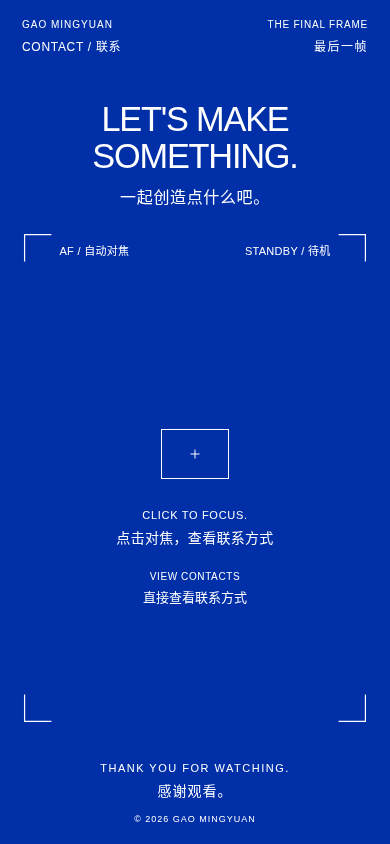
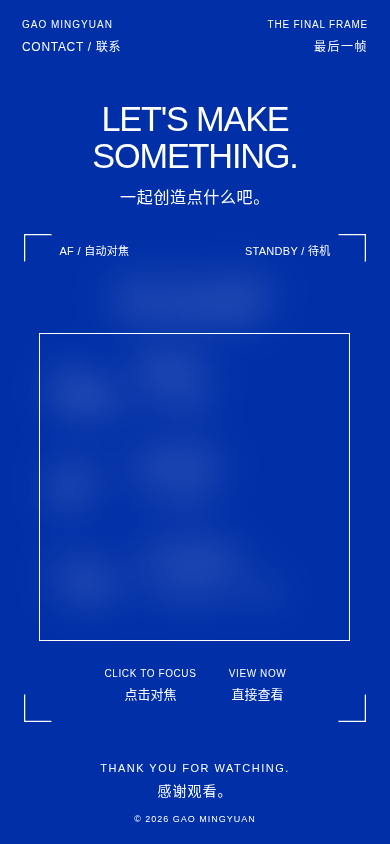
Keep CONTACT composition fixed and animate blur only

diff --git a/prototypes/contact-interaction/contact.js b/prototypes/contact-interaction/contact.js
@@ -1,99 +1,54 @@
 'use strict';
 (() => {
   const $ = id => document.getElementById(id);
-  const root=$('contact'), frame=$('viewfinder'), mark=$('focus-mark'), trigger=$('focus-trigger'), panel=$('contact-panel');
-  const direct=$('direct-view'), controls=$('frame-controls'), back=$('back'), refocus=$('refocus'), feedback=$('copy-feedback');
+  const root=$('contact'), frame=$('viewfinder'), content=$('focus-content'), trigger=$('focus-trigger'), panel=$('contact-panel');
+  const back=$('back'), refocus=$('refocus'), feedback=$('copy-feedback');
   const reduced=matchMedia('(prefers-reduced-motion: reduce)');
-  const clamp=x=>Math.max(0,Math.min(1,x)), mix=(a,b,t)=>a+(b-a)*t;
-  const ease=x=>(1-Math.cos(Math.PI*clamp(x)))/2, phase=(p,a,b)=>ease((p-a)/(b-a));
-  let playhead=0, goal=0, rate=0, reopen=false, raf=0, last=0;
-  const position={x:0,y:0}, velocity={x:0,y:0}, target={x:0,y:0};
+  let playhead=0, goal=0, animation=null, raf=0, reopen=false;
   let contact={email:null,wechat:null,resumeUrl:null,wechatQrUrl:null}, copyEpoch=0, feedbackToken=0;
-  function labels(state) {
-    root.dataset.state=state;
-    const text={
-      standby:['STANDBY / 待机','CLICK TO FOCUS.','点击对焦，查看联系方式'],
-      opening:['FOCUSING / 对焦中','FINDING FOCUS.','正在对焦，展开联系方式'],
-      focused:['FOCUSED / 已对焦',"IN FOCUS. LET'S CONNECT.",'已对焦，期待与你联系。'],
-      closing:['RETURNING / 返回取景','BACK TO THE FRAME.','正在返回取景'],
-      refocusing:['REFOCUSING / 重新对焦','FINDING FOCUS.','重新对焦，期待与你联系']
-    }[state];
-    $('camera-state').textContent=text[0]; $('focus-en').textContent=text[1]; $('focus-zh').textContent=text[2];
-  }
+  const ease=x=>(1-Math.cos(Math.PI*x))/2;
   function render() {
-    const p=ease(playhead), expand=phase(p,.25,1), squeeze=mix(1,.60,phase(p,0,.25));
-    const w=frame.clientWidth, h=frame.clientHeight, mobile=innerWidth<=650;
-    const initialW=mobile?(innerHeight<=650?54:68):94, initialH=mobile?(innerHeight<=650?40:50):68;
-    const box={x:mobile?16:w*.08,y:100,w:mobile?w-32:w*.84,h:h-182};
-    const follow=1-phase(p,.08,.65);
-    const width=mix(initialW*squeeze,box.w,expand), height=mix(initialH*squeeze,box.h,expand);
-    const cx=mix(w/2,box.x+box.w/2,expand)+position.x*follow;
-    const cy=mix(h*.45,box.y+box.h/2,expand)+position.y*follow;
-    const x=cx-width/2, y=cy-height/2;
-    // One persistent, fully opaque outline is both the autofocus box and the contact enclosure.
-    Object.assign(mark.style,{left:`${x}px`,top:`${y}px`,width:`${width}px`,height:`${height}px`});
-    mark.style.setProperty('--cross-opacity',1-phase(p,.18,.55));
-    $('focus-message').style.top=`${mix(h*.45+54,45,phase(p,0,.25))}px`;
-    direct.style.top=`${h*.45+112}px`;
-    const reveal=phase(p,.48,.96), opened=playhead===1&&goal===1&&!reopen;
-    panel.hidden=p<=.48; panel.inert=!opened; panel.setAttribute('aria-hidden',String(!opened));
-    Object.assign(panel.style,{left:`${box.x}px`,top:`${box.y}px`,width:`${box.w}px`,height:`${box.h}px`,opacity:String(reveal),filter:`blur(${(1-reveal)*8}px)`,clipPath:`inset(${Math.max(0,y-box.y)}px ${Math.max(0,box.x+box.w-x-width)}px ${Math.max(0,box.y+box.h-y-height)}px ${Math.max(0,x-box.x)}px)`});
-    trigger.hidden=opened; trigger.disabled=playhead!==0||goal!==0;
-    trigger.setAttribute('aria-expanded',String(opened));
-    direct.hidden=playhead!==0||goal!==0;
-    controls.hidden=p<.005; controls.style.opacity=String(phase(p,.02,.25));
-    refocus.disabled=!opened;
-    root.dataset.progress=p.toFixed(4);
+    // Focus changes optical clarity only. Geometry, opacity and DOM presence never animate.
+    content.style.filter=`blur(${20*(1-ease(playhead))}px)`;
+    const focused=playhead===1&&goal===1&&!reopen;
+    root.dataset.state=focused?'focused':animation?'focusing':'standby';
+    root.dataset.progress=String(playhead);
+    panel.inert=!focused;
+    trigger.disabled=focused;
+    $('camera-state').textContent=focused?'FOCUSED / 已对焦':animation?'FOCUSING / 对焦中':'STANDBY / 待机';
+    back.children[0].textContent=goal||focused?'BACK TO FRAME':'CLICK TO FOCUS';
+    back.children[1].textContent=goal||focused?'返回取景':'点击对焦';
+    refocus.children[0].textContent=focused?'REFOCUS':'VIEW NOW';
+    refocus.children[1].textContent=focused?'重新对焦':'直接查看';
+    refocus.setAttribute('aria-label',focused?'重新对焦 / Refocus':'直接查看联系方式，跳过动画 / View contacts without animation');
   }
-  function request() { if (!raf&&!document.hidden) raf=requestAnimationFrame(tick); }
-  function settle(endpoint) {
-    playhead=goal=endpoint; rate=0; frame.removeAttribute('aria-busy');
-    if (endpoint===0&&reopen) { reopen=false; goal=1; labels('opening'); frame.setAttribute('aria-busy','true'); render(); return; }
-    labels(endpoint?'focused':'standby'); render();
-    if (endpoint) panel.focus({preventScroll:true}); else trigger.focus({preventScroll:true});
+  function finish(next) {
+    playhead=goal=next; animation=null; frame.removeAttribute('aria-busy');
+    if(!next&&reopen){reopen=false;go(1);return;}
+    render();
+    if(next)panel.focus({preventScroll:true});else trigger.focus({preventScroll:true});
   }
   function go(next,{immediate=false,again=false}={}) {
-    if (next===goal&&playhead!==goal&&!immediate&&reopen===again) return;
-    feedbackToken++; feedback.replaceChildren(); reopen=again;
-    target.x=target.y=0;
-    if (immediate||reduced.matches) { reopen=false; settle(again?1:next); return; }
-    if (next===playhead) { settle(next); return; }
-    goal=next; labels(again?'refocusing':next?'opening':'closing'); frame.setAttribute('aria-busy','true'); render(); request();
+    cancelAnimationFrame(raf);raf=0;reopen=again;
+    feedbackToken++;feedback.replaceChildren();
+    goal=next;
+    if(immediate||reduced.matches){reopen=false;finish(again?1:next);return;}
+    if(next===playhead){finish(next);return;}
+    // Reversal starts from the current blur value; no geometry or content is replaced.
+    animation={from:playhead,to:next,start:performance.now(),duration:1000*Math.abs(next-playhead)};
+    frame.setAttribute('aria-busy','true');render();raf=requestAnimationFrame(tick);
   }
   function tick(now) {
-    raf=0; const dt=last?Math.min((now-last)/1000,.05):1/60; last=now;
-    const omega=15, decay=Math.exp(-omega*dt);
-    for (const axis of ['x','y']) {
-      const d=position[axis]-target[axis], step=(velocity[axis]+omega*d)*dt;
-      position[axis]=target[axis]+(d+step)*decay; velocity[axis]=(velocity[axis]-omega*step)*decay;
-    }
-    if (playhead!==goal) {
-      const direction=goal>playhead?1:-1;
-      // Retain playback speed on reversal, braking gently before tracing the same path back.
-      rate=mix(rate,direction,1-Math.exp(-24*dt));
-      const next=clamp(playhead+rate*dt/1.10);
-      if ((direction>0&&next>=goal)||(direction<0&&next<=goal)) settle(goal); else playhead=next;
-    }
-    render();
-    if (playhead!==goal||['x','y'].some(a=>Math.abs(position[a]-target[a])>.01||Math.abs(velocity[a])>.02)) request(); else last=0;
+    raf=0;if(!animation)return;
+    const t=Math.min(1,(now-animation.start)/animation.duration);
+    playhead=animation.from+(animation.to-animation.from)*t;
+    if(t===1)finish(animation.to);else{render();raf=requestAnimationFrame(tick);}
   }
-  trigger.addEventListener('click',()=>go(1));
-  direct.addEventListener('click',()=>go(1,{immediate:true}));
-  back.addEventListener('click',()=>go(0));
-  refocus.addEventListener('click',()=>go(0,{again:true}));
+  trigger.addEventListener('click',()=>{if(!animation)go(1);});
+  back.addEventListener('click',()=>go(goal||playhead===1?0:1));
+  refocus.addEventListener('click',()=>playhead===1&&!animation?go(0,{again:true}):go(1,{immediate:true}));
   document.addEventListener('keydown',event=>{if(event.key==='Escape'&&(playhead||goal)){event.preventDefault();go(0);}});
-  frame.addEventListener('pointermove',event=>{
-    if(event.pointerType!=='mouse'||reduced.matches||playhead!==0||goal!==0)return;
-    const b=frame.getBoundingClientRect(); target.x=Math.max(-12,Math.min(12,((event.clientX-b.left)/b.width-.5)*24)); target.y=Math.max(-9,Math.min(9,((event.clientY-b.top)/b.height-.5)*18)); request();
-  });
-  frame.addEventListener('pointerleave',()=>{target.x=target.y=0;request();});
-  window.addEventListener('resize',render);
-  document.addEventListener('visibilitychange',()=>{if(document.hidden){cancelAnimationFrame(raf);raf=0;last=0;}else request();});
-  reduced.addEventListener('change',()=>{
-    if(!reduced.matches)return;
-    root.classList.remove('is-entering'); position.x=position.y=target.x=target.y=velocity.x=velocity.y=0;
-    if(playhead!==goal||reopen){const end=reopen?1:goal;reopen=false;settle(end);}else render();
-  });
+  reduced.addEventListener('change',()=>{if(reduced.matches&&animation){const end=reopen?1:goal;cancelAnimationFrame(raf);raf=0;reopen=false;finish(end);}});
   function emailValue(value) {
     if(value===null||value===undefined||value==='')return null;
     if(typeof value!=='string'||!/^[^\s@]+@[^\s@]+\.[^\s@]+$/.test(value.trim()))throw new TypeError('请提供真实有效的邮箱地址');return value.trim();
@@ -133,6 +88,10 @@
     finally{if(epoch===copyEpoch)button.disabled=!contact[field];}
   });
   window.ContactPrototype=Object.freeze({configure});configure(window.CONTACT_CONFIG||{});
-  if(!reduced.matches){root.classList.add('is-entering');root.addEventListener('animationend',event=>{if(event.animationName==='draw-corner'&&event.target.closest('.corner-bl'))root.classList.remove('is-entering');});}
-  render();
+  function layout() {
+    // Preserve the approved final geometry, including its integer clientWidth rounding.
+    const w=frame.clientWidth,h=frame.clientHeight,mobile=innerWidth<=650;
+    for(const element of [$('focus-mark'),panel])Object.assign(element.style,{left:`${mobile?16:w*.08}px`,top:'100px',width:`${mobile?w-32:w*.84}px`,height:`${h-182}px`});
+  }
+  window.addEventListener('resize',layout);layout();render();
 })();

diff --git a/prototypes/contact-interaction/contact.css b/prototypes/contact-interaction/contact.css
@@ -25,14 +25,13 @@ h1 { font-size: clamp(34px, 4.2vw, 84px); line-height: 1.05; font-weight: 400; l
 .camera-ui { position: absolute; top: 13px; font-size: 12px; line-height: 1.5; letter-spacing: 1px; pointer-events: none; }
 .camera-left { left: 58px; }
 .camera-right { right: 58px; }
-.focus-mark { position: absolute; left: calc(50% - 47px); top: calc(45% - 34px); width: 94px; height: 68px; border: 1.2px solid white; pointer-events: none; opacity: 1; }
-.focus-mark::before, .focus-mark::after { content: ''; position: absolute; top: 50%; left: 50%; background: white; transform: translate(-50%, -50%); opacity: var(--cross-opacity, 1); }
-.focus-mark::before { width: 9px; height: 1px; }
-.focus-mark::after { width: 1px; height: 9px; }
+.focus-mark { position: absolute; left: 8%; top: 100px; width: 84%; height: calc(100% - 182px); border: 1.2px solid white; pointer-events: none; opacity: 1; }
 .focus-trigger { position: absolute; inset: 0; width: 100%; height: 100%; border: 0; background: none; padding: 0; cursor: crosshair; z-index: 2; touch-action: manipulation; -webkit-tap-highlight-color: transparent; }
 .focus-trigger:disabled { pointer-events: none; }
+.focus-content { position: absolute; inset: 0; filter: blur(20px); pointer-events: none; }
+.contact-shell[data-state="focused"] .focus-content { pointer-events: auto; }
 button:focus-visible, a:focus-visible { outline: 1px dashed white; outline-offset: 5px; }
-.focus-message { position: absolute; left: 12px; right: 12px; top: calc(45% + 54px); display: flex; flex-direction: column; gap: 7px; align-items: center; text-align: center; pointer-events: none; }
+.focus-message { position: absolute; left: 12px; right: 12px; top: 45px; display: flex; flex-direction: column; gap: 7px; align-items: center; text-align: center; pointer-events: none; }
 #focus-en { font-size: 12px; line-height: 1.4; letter-spacing: 1.6px; }
 #focus-zh { font-size: 16px; line-height: 1.5; letter-spacing: .5px; }
 .text-control { display: flex; flex-direction: column; align-items: center; justify-content: center; gap: 4px; min-height: 44px; padding: 4px 8px; border: 0; background: none; cursor: pointer; }
@@ -40,8 +39,7 @@ button:focus-visible, a:focus-visible { outline: 1px dashed white; outline-offse
 .text-control span:last-child { font-size: 14px; line-height: 1.5; border-bottom: 1px solid transparent; }
 .text-control:hover span:last-child { border-color: white; }
 .text-control:disabled { color: white; opacity: .8; cursor: default; }
-.direct-view { position: absolute; top: calc(45% + 112px); left: 50%; transform: translateX(-50%); width: max-content; z-index: 4; }
-.contact-panel { position: absolute; padding: 24px 24px 14px; display: grid; grid-template-rows: minmax(0,1fr) auto; gap: 8px; z-index: 3; outline: none; }
+.contact-panel { position: absolute; left: 8%; top: 100px; width: 84%; height: calc(100% - 182px); padding: 24px 24px 14px; display: grid; grid-template-rows: minmax(0,1fr) auto; gap: 8px; z-index: 3; outline: none; }
 .contact-grid { min-height: 0; display: grid; grid-template-columns: repeat(3,minmax(0,1fr)); gap: 24px; align-items: center; overflow-y: auto; overscroll-behavior: contain; scrollbar-width: thin; scrollbar-color: white transparent; }
 .contact-item { display: grid; grid-template-areas: 'heading' 'value' 'actions'; gap: 10px; min-width: 0; text-align: center; }
 .contact-item h2 { grid-area: heading; display: flex; flex-direction: column; gap: 5px; margin: 0; font-weight: 400; }
@@ -59,19 +57,15 @@ a.contact-value[href]:hover { text-decoration: underline; text-underline-offset:
 .copy-feedback:empty { display: none; }
 .copy-feedback span { display: block; }
 .copy-feedback [lang='en'] { font-size: 11px; }
+.frame-controls .text-control span { white-space: nowrap; }
+#back { width: 118.453125px; }
+#refocus { width: 76.78125px; }
 .frame-controls { position: absolute; bottom: 13px; left: 12px; right: 12px; display: flex; gap: 32px; justify-content: center; z-index: 4; }
 footer { display: grid; grid-template-columns: 1fr auto 1fr; align-items: end; padding: 12px 4.5vw 24px; gap: 20px; }
 .copyright { font-size: 10px; letter-spacing: 1px; line-height: 1.5; }
 .end-credit { display: flex; flex-direction: column; align-items: center; gap: 6px; }
 .end-credit span:first-child { font-size: 11px; letter-spacing: 1.5px; line-height: 1.4; }
 .end-credit span:last-child { font-size: 14px; letter-spacing: 1px; line-height: 1.5; }
-.is-entering .corner path { stroke-dasharray: 1; animation: draw-corner 1s cubic-bezier(.2,.6,.25,1) both; }
-.is-entering .corner-tr path { animation-delay: .06s; }
-.is-entering .corner-br path { animation-delay: .12s; }
-.is-entering .corner-bl path { animation-delay: .18s; }
-.is-entering .headline { animation: reveal-title .9s .12s ease both; }
-@keyframes draw-corner { from { stroke-dashoffset: 1; } to { stroke-dashoffset: 0; } }
-@keyframes reveal-title { from { opacity: 0; transform: translateY(8px); } to { opacity: 1; transform: translateY(0); } }
 @media (max-width: 650px) {
   .topbar { padding: 19px 22px 0; min-height: 65px; }
   .signature > span:first-child { font-size: 10px; letter-spacing: 1px; }
@@ -91,6 +85,7 @@ footer { display: grid; grid-template-columns: 1fr auto 1fr; align-items: end; p
   #focus-zh { font-size: 14px; letter-spacing: .3px; }
   .text-control span:first-child { font-size: 10px; letter-spacing: .6px; }
   .text-control span:last-child { font-size: 13px; }
+  .focus-mark, .contact-panel { left: 16px; width: calc(100% - 32px); }
   .contact-panel { padding: 12px 14px; gap: 4px; }
   .contact-grid { grid-template-columns: minmax(0,1fr); grid-template-rows: repeat(3,minmax(64px,1fr)); gap: 4px; align-items: stretch; }
   .contact-item { grid-template-columns: 76px minmax(0,1fr); grid-template-rows: auto 44px; grid-template-areas: 'heading value' 'heading actions'; gap: 0 10px; text-align: left; align-content: center; }
@@ -104,6 +99,8 @@ footer { display: grid; grid-template-columns: 1fr auto 1fr; align-items: end; p
   .inline-action span:last-child { font-size: 13px; }
   .copy-feedback { font-size: 12px; }
   .copy-feedback [lang='en'] { font-size: 10px; }
+  #back { width: 105.125px; }
+  #refocus { width: 69.09375px; }
   .frame-controls { gap: 20px; }
   footer { padding: 10px 20px 18px; display: flex; flex-direction: column; align-items: center; gap: 11px; }
   .end-credit { order: -1; gap: 4px; }

diff --git a/prototypes/contact-interaction/index.html b/prototypes/contact-interaction/index.html
@@ -23,12 +23,12 @@
       <svg class="corner corner-bl" viewBox="0 0 48 48" aria-hidden="true"><path d="M1 47V1H47" pathLength="1"/></svg>
       <span class="camera-ui camera-left">AF / 自动对焦</span><span id="camera-state" class="camera-ui camera-right">STANDBY / 待机</span>
       <div id="focus-mark" class="focus-mark" aria-hidden="true"></div>
-      <button id="focus-trigger" class="focus-trigger" type="button" aria-label="点击对焦，查看联系方式 / Click to focus and view contacts" aria-controls="contact-panel" aria-expanded="false"></button>
+      <button id="focus-trigger" class="focus-trigger" type="button" aria-label="点击对焦，查看联系方式 / Click to focus and view contacts" aria-controls="contact-panel"></button>
+      <div id="focus-content" class="focus-content">
       <div id="focus-message" class="focus-message" role="status" aria-live="polite" aria-atomic="true">
-        <span id="focus-en" lang="en">CLICK TO FOCUS.</span><span id="focus-zh">点击对焦，查看联系方式</span>
+        <span id="focus-en" lang="en">IN FOCUS. LET'S CONNECT.</span><span id="focus-zh">已对焦，期待与你联系。</span>
       </div>
-      <button id="direct-view" class="text-control direct-view" type="button"><span lang="en">VIEW CONTACTS</span><span>直接查看联系方式</span></button>
-      <section id="contact-panel" class="contact-panel" aria-label="联系方式 / Contact details" tabindex="-1" hidden inert aria-hidden="true">
+      <section id="contact-panel" class="contact-panel" aria-label="联系方式 / Contact details" tabindex="-1" inert>
         <div class="contact-grid">
           <article class="contact-item" aria-labelledby="email-heading">
             <h2 id="email-heading"><span lang="en">EMAIL</span><span>电子邮箱</span></h2>
@@ -48,12 +48,13 @@
         </div>
         <p id="copy-feedback" class="copy-feedback" role="status" aria-live="polite" aria-atomic="true"></p>
       </section>
-      <div id="frame-controls" class="frame-controls" hidden>
-        <button id="back" class="text-control" type="button"><span lang="en">BACK TO FRAME</span><span>返回取景</span></button>
-        <button id="refocus" class="text-control" type="button"><span lang="en">REFOCUS</span><span>重新对焦</span></button>
+      </div>
+      <div id="frame-controls" class="frame-controls">
+        <button id="back" class="text-control" type="button"><span lang="en">CLICK TO FOCUS</span><span>点击对焦</span></button>
+        <button id="refocus" class="text-control" type="button"><span lang="en">VIEW NOW</span><span>直接查看</span></button>
       </div>
     </section>
-    <noscript>当前邮箱、微信与简历均待接入。启用 JavaScript 可体验对焦与联系方式展开。</noscript>
+    <noscript>当前邮箱、微信与简历均待接入。启用 JavaScript 可体验失焦与对焦切换。</noscript>
   </main>
   <footer><span class="copyright">© 2026 GAO MINGYUAN</span><div class="end-credit"><span lang="en">THANK YOU FOR WATCHING.</span><span>感谢观看。</span></div><span class="footer-spacer" aria-hidden="true"></span></footer>
 </div>

diff --git a/prototypes/contact-interaction/README.md b/prototypes/contact-interaction/README.md
@@ -1,47 +1,28 @@
-# CONTACT · THE FINAL FRAME / 最后一帧
+# CONTACT · 固定画面的失焦 / 对焦原型
 
-独立 HTML / CSS / JavaScript 原型，无构建或第三方依赖。只修改本目录，未整合或修改正式 HOME、WORKS、ABOUT、PROJECT。
+交互预览：https://anaphy-contact-focus-reveal-preview.alightowlet66.chatgpt.site
 
-## 交互预览
+只修改本目录。HOME、WORKS、ABOUT、PROJECT 未修改，未合并 PR。
 
-新版：https://anaphy-contact-focus-reveal-preview.alightowlet66.chatgpt.site
+## 固定画面
 
-上一版供对比：https://anaphy-contact-final-frame-preview.alightowlet66.chatgpt.site
+以已确认的对焦完成版为最终画面。完整联系方式 DOM 从 HTML 加载起就存在，始终占据相同位置，透明度始终为 1。四角取景标记、矩形边框、标题及片尾不参与动画。没有中央十字框、形变、插入面板、隐藏联系方式或高度动画。
 
-使用当前 ChatGPT 账号访问独立私有预览。点击中央取景器或键盘 Tab 后 Enter / Space：对焦框先收缩，再连续扩展成联系信息的外框，EMAIL、WECHAT、RESUME 在框内由模糊到清晰。信息不在初始状态提前出现，也没有下方独立联系栏。
+只有 `.focus-content`（IN FOCUS 双语标题和三列联系信息）的 CSS filter 从 `blur(20px)` 在约 1 秒内变为 `blur(0px)`。不移动、不缩放、不裁切内容。返回取景反向失焦；重新对焦先失焦再清晰。重复点击取景区不会重启动画；Escape 可取消并恢复失焦。减少动态效果设置下立即切换。
 
-同一个始终不透明的 DOM 轮廓贯穿两个状态；共享时间进度控制框的位置、宽高、准星、文字位置及内容裁切与清晰度。返回取景沿同一路径反向播放，重新对焦完整往返。动画中可按 Escape 或点击返回，保留播放速度平滑制动后反转。鼠标跟随使用阻尼弹簧，最大位移 12 × 9px，仅在初始状态生效。
+初始底部“点击对焦”及取景区均可点击，右侧“直接查看”跳过动画。清晰后恢复原有“返回取景 / 重新对焦”。两个按钮固定占位，文字切换不改变布局。支持 Tab、Enter / Space、触屏。资料区初始 inert 防止误触，清晰后恢复操作；内容始终渲染，辅助入口始终可用。
 
-“直接查看联系方式”跳过动画，减少动态效果设置同样立即切换，手机支持触摸。原生按钮、可见键盘焦点与实时状态提示；展开完毕才允许操作内容，关闭后焦点回到取景器。所有主要英文操作附有中文。
+本地可直接打开 index.html，或在本目录运行 `python3 -m http.server 8006 --bind 127.0.0.1`。
 
-## 本地运行
+## 真实资料接口
 
-直接打开本目录 index.html；或在本目录运行 `python3 -m http.server 8006 --bind 127.0.0.1`，本机访问 http://127.0.0.1:8006/ 。复制需浏览器支持安全上下文剪贴板；失败会提供手动复制提示。
+contact-config.js 保留 email、wechat、resumeUrl、wechatQrUrl，当前均为 null。提供真实邮箱、微信号和实际存在的 PDF/二维码路径后才启用对应操作；缺失资料明确标为待接入，无虚假链接。支持 `ContactPrototype.configure(...)`，传 null 恢复空配置。剪贴板失败提示手动复制。跨域 PDF 的 download 属性取决于服务器，查看器仍可保存。
 
-## 接入真实资料
+## 验证与截图
 
-编辑 contact-config.js 的四项配置，当前全部为 null：
+实际 Chromium 比较 1920×1080、1440×900、1366×768、390×844、320×568 的初始、动画中、完成状态元素位置与尺寸，并与修改前已确认的完成状态比较。检查触摸、键盘、反向动画、重复操作、辅助跳过和减少动态效果。320×568 保留纵向滚动及资料区独立滚动，无横向溢出。未验证 Safari、Firefox 或真实手机硬件。
 
-```js
-window.CONTACT_CONFIG = Object.freeze({
-  email: null,
-  wechat: null,
-  resumeUrl: null,
-  wechatQrUrl: null
-});
-```
-
-提供真实邮箱、微信号，以及实际存在的 PDF 路径/HTTPS 地址后，对应操作才启用。二维码地址可选，未提供时不显示入口。无资料时明确显示“待接入”，复制禁用，链接没有 href。不会生成虚假文件或地址。
-
-也支持运行时 `ContactPrototype.configure({ email, wechat, resumeUrl, wechatQrUrl })`，传 null 可恢复占位。查看 PDF 在新标签页打开，下载使用原生 download 属性；跨域服务器可能忽略该属性，此时可在 PDF 查看器保存。实际 PDF 内容和服务器响应仍需提供资料后验证。
-
-## 实际浏览器检查
-
-Chromium：1920×1080、1440×900、1366×768、390×844、320×568。检查初始/展开截图、连续轮廓的中间尺寸、反向关闭、动画中取消、重新对焦中取消、触摸配置、键盘及减少动态效果。测试资料仅注入测试浏览器内，验证邮件/PDF/二维码接口及复制成功、失败、重置，不写入交付页面。
-
-常规桌面和 390×844 适应视口；320×568 保留可读尺寸，允许页面纵向滚动。联系信息区在内容较长时可独立滚动；所有尺寸无页面横向溢出。未测试真实手机硬件、Safari 或 Firefox。
-
-- [桌面初始](previews/initial-desktop.png)
-- [桌面展开](previews/focused-desktop.png)
-- [手机初始](previews/initial-mobile.png)
-- [手机展开](previews/focused-mobile.png)
+- [桌面失焦](previews/initial-desktop.png)
+- [桌面清晰](previews/focused-desktop.png)
+- [手机失焦](previews/initial-mobile.png)
+- [手机清晰](previews/focused-mobile.png)
